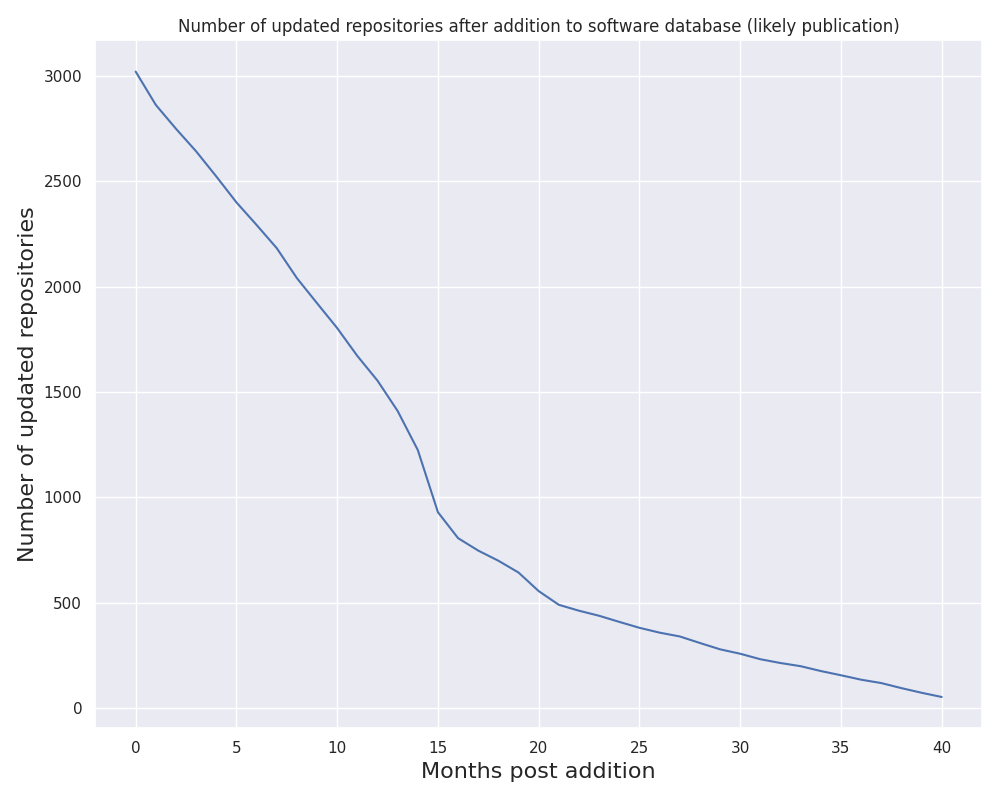
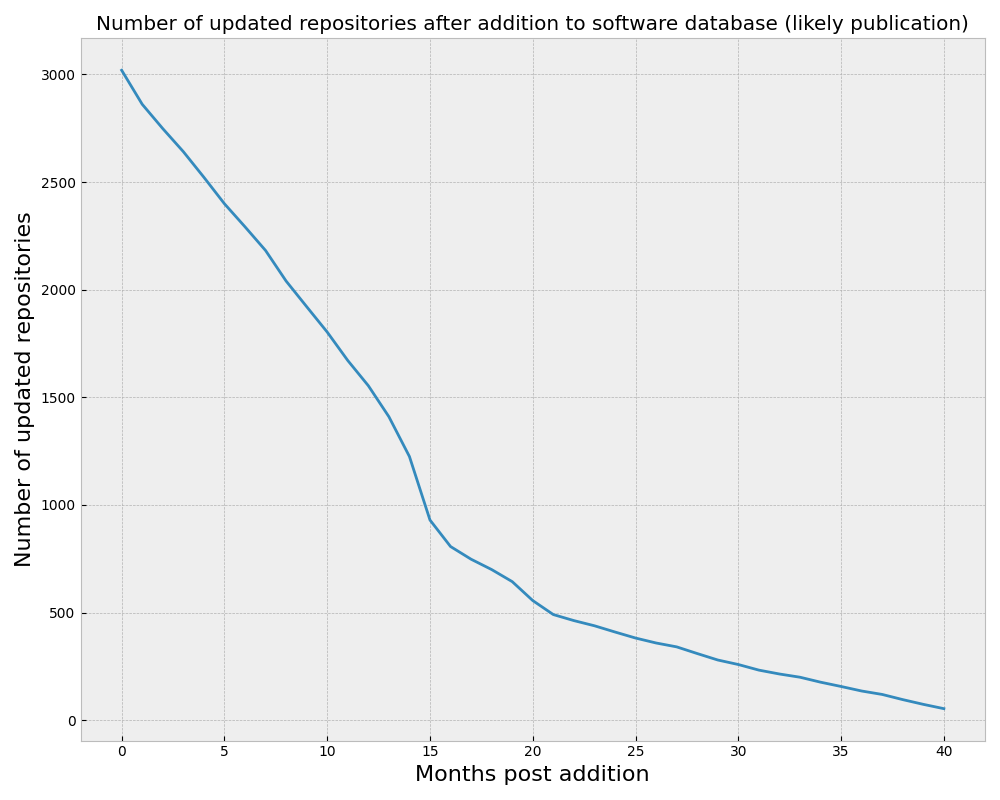
make plots easier to read

diff --git a/plot-activity.py b/plot-activity.py
@@ -126,32 +126,29 @@ def plot_results(df, outdir):
     """
     Make plots for each result item.
     """
-    plt.figure(figsize=(28, 28))
+    plt.figure(figsize=(18, 10))
     ax = sns.scatterplot(data=df, x="added_database_week", y="last_commit_date")
     outfile = os.path.join(outdir, "last-commit-function-of-added.png")
     make_plot(
         ax,
-        slug="last-commit-vs-addition-to-database-date",
+        title="Last Commit vs. Database Addition",
         outfile=outfile,
         ylabel="Last commit date (proxy for activity)",
-        xlabel="Date added to Database (proxy for publication)",
+        xlabel="Date added to database (proxy for publication)",
     )
 
 
-def make_plot(ax, slug, outfile, xlabel=None, ylabel=None):
+def make_plot(ax, title, outfile, xlabel=None, ylabel=None):
     """
     Generic plot making function for some x and y
     """
-    # for sty in plt.style.available:
-    title = slug.replace("-", " ")
-    sns.set(rc={"figure.figsize": (28, 28)})
-    plt.title(title)
+    plt.title(title, fontsize=28)
 
     # For bandwith, higher is better
     if xlabel:
-        ax.set_xlabel(xlabel, fontsize=16)
+        ax.set_xlabel(xlabel, fontsize=20)
     if ylabel:
-        ax.set_ylabel(ylabel, fontsize=16)
+        ax.set_ylabel(ylabel, fontsize=20)
     # ax.set_xticklabels(ax.get_xmajorticklabels(), fontsize=14)
     # ax.set_yticklabels(ax.get_yticks(), fontsize=14)
     plt.tight_layout()
